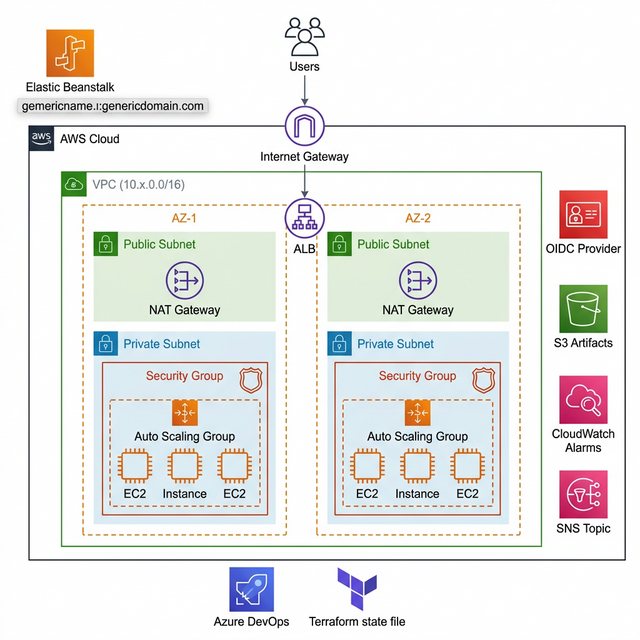
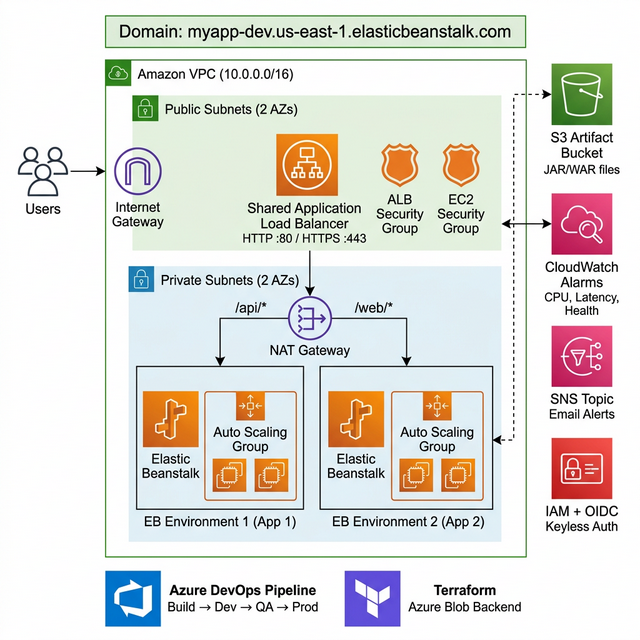
added

diff --git a/Terraform-EBStalk/README.md b/Terraform-EBStalk/README.md
@@ -266,6 +266,7 @@ These files control environment-specific values including:
 | `modules/oidc` | IAM OIDC provider + deploy role |
 | `modules/vpc` | VPC, subnets, IGW, NAT, route tables |
 | `modules/security-groups` | ALB SG + EC2 SG |
+| `modules/alb` | **Shared ALB** for multi-app support (optional) |
 | `modules/elastic-beanstalk` | EB app, version, environment, IAM roles |
 | `modules/cloudwatch` | CloudWatch alarms + SNS topic |
 
@@ -278,16 +279,21 @@ flowchart LR
     OIDC["module.oidc\nOIDC provider + deploy role"]
     VPC["module.vpc\nVPC + subnets"]
     SG["module.security_groups\nALB SG + EC2 SG"]
+    ALB["module.alb\nShared ALB (optional)"]
     EB["module.elastic_beanstalk\nApp + Version + Environment"]
     CW["module.cloudwatch\nAlarms + SNS"]
 
     ROOT --> OIDC
     ROOT --> VPC
     ROOT --> SG
+    ROOT --> ALB
     ROOT --> EB
     ROOT --> CW
 
     VPC --> SG
+    VPC --> ALB
+    SG --> ALB
+    ALB --> EB
     VPC --> EB
     SG --> EB
     EB --> CW
@@ -315,12 +321,12 @@ Terraform-EBStalk/
 │   ├── oidc/                    # IAM OIDC + deploy role
 │   ├── vpc/                     # VPC + subnets + gateways
 │   ├── security-groups/         # ALB SG + EC2 SG
+│   ├── alb/                     # Shared ALB (optional, multi-app)
 │   ├── elastic-beanstalk/       # EB app + env + ASG + ALB
 │   └── cloudwatch/              # Alarms + SNS
 ├── docs/
 │   ├── architecture.png         # Architecture diagram (image)
-│   ├── architecture.svg         # Architecture diagram (SVG)
-│   └── architecture.drawio      # Architecture diagram (editable)
+│   └── architecture.svg         # Architecture diagram (SVG)
 └── sample-app/                  # Sample Java application
 ```
 
